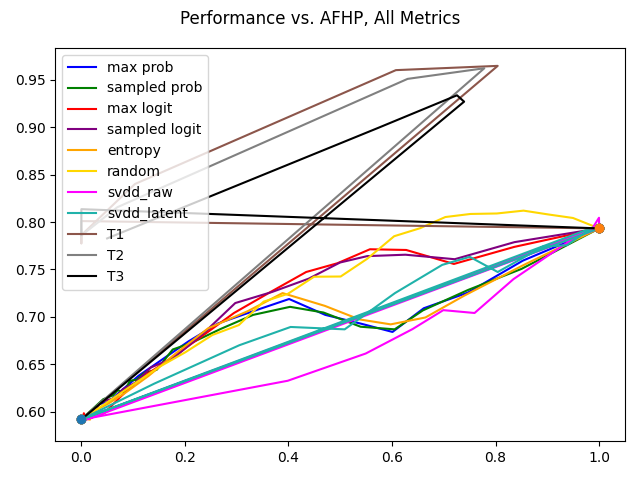
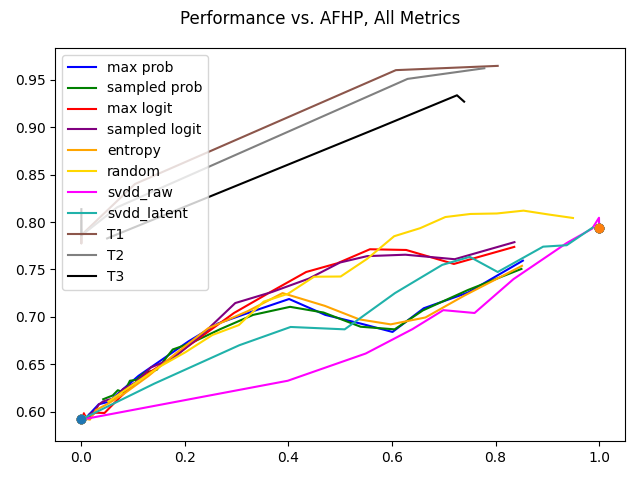
axes6 fix

diff --git a/full_analysis.py b/full_analysis.py
@@ -438,18 +438,9 @@ if args.plotting:
             adj_rew_means, adj_rew_stds, adj_rew_sems = get_statistics_nested(adj_rew_by_perc[metric], True)
             axes5.plot(afhp_means, rew_means, color = colors[metric], label = metric)
             # Adding 0% ask for help and 100% ask for help
-            afhp_means = np.insert(afhp_means, 0, 0)
-            rew_means = np.insert(rew_means, 0, test_perf_mean)
-            adj_rew_means = np.insert(adj_rew_means, 0, test_perf_mean)
-            afhp_means = np.append(afhp_means, 1)
-            rew_means = np.append(rew_means, expert_perf_mean)
-            adj_rew_means = np.append(adj_rew_means, expert_perf_mean - (10/256 * args.query_cost * 256))
-            if "T" in metric:
-                print("COORDINATES")
-                print("\n".join([str(item) for item in list(zip(afhp_means, rew_means))]))
-            axes6.plot(afhp_means, rew_means, color = colors[metric], label =  metric)
-            axes6.plot(afhp_means[0], rew_means[0], "o")
-            axes6.plot(afhp_means[-1], rew_means[-1], "o")
+            axes6.plot(afhp_means, rew_means, color = colors[metric], label = metric)
+            axes6.plot(0, test_perf_mean, "o")
+            axes6.plot(1, expert_perf_mean, "o")
         axes5.legend()
         axes6.legend()
         fig5.suptitle("Performance vs. AFHP, All Metrics")
